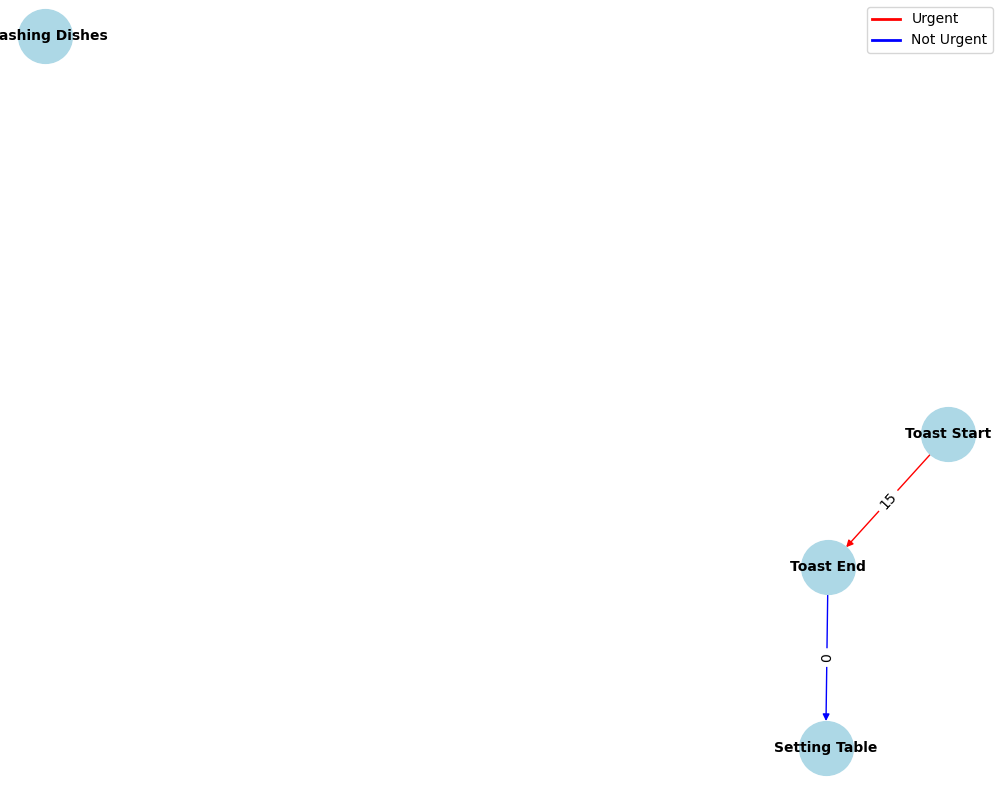
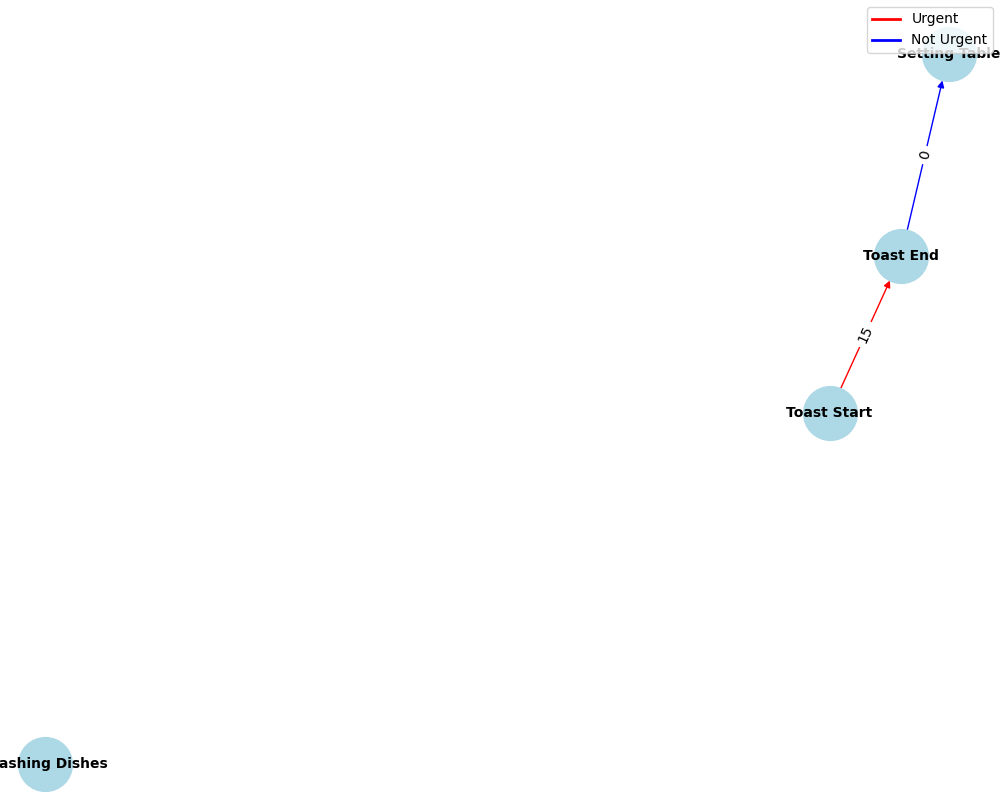
urgent constraint 적용 후

diff --git a/task_management/planner/task_plan_tree_builder.py b/task_management/planner/task_plan_tree_builder.py
@@ -5,7 +5,7 @@ from anytree import Node
 
 from concept.agent import Agent
 from concept.task import Subtask, Task, get_all_subtasks
-from task_management.constraint_manager import ConstraintHandler
+from task_management.handler.constraint_handler import ConstraintHandler
 from task_management.handler.dynamic_task_handler import TaskHandler
 from task_management.handler.subtask_decomposer import TaskDecomposer
 
@@ -101,10 +101,16 @@ class TreeBuilder:
         wait_times = []
         if tc_nodes:
             for tc_node in tc_nodes:
-                tc_interval = self.constraint_handler.constraints.get_edge_data(
+                edge_data = self.constraint_handler.constraints.get_edge_data(
                     tc_node.name, subtask.name
-                )["info"]["Interval"]
+                )["info"]
+                tc_interval = edge_data["Interval"]
+                urgency = edge_data["Urgency"]
                 wait_time = tc_node.makespan + tc_interval - parent_node.makespan
+                wait_times.append(wait_time)
+
+                if urgency:
+                    wait_time = max(0, tc_interval - wait_time)
                 wait_times.append(wait_time)
             return max(wait_times)
         else:

diff --git a/task_management/handler/constraint_handler.py b/task_management/handler/constraint_handler.py
@@ -54,4 +54,18 @@ class ConstraintHandler:
             if not tc_nodes:
                 return False
 
+            for tc_node in tc_nodes:
+                interval = self.constraints.get_edge_data(tc_node.name, subtask.name)[
+                    "info"
+                ]["Interval"]
+                urgency = self.constraints.get_edge_data(tc_node.name, subtask.name)[
+                    "info"
+                ]["Urgency"]
+                time_diff = parent_node.makespan - tc_node.makespan
+
+                if urgency and time_diff > interval:
+                    return False
+                elif not urgency and time_diff < interval:
+                    return False
+
         return True

diff --git a/task_management/scheduler/exhaustive_scheduler.py b/task_management/scheduler/exhaustive_scheduler.py
@@ -5,7 +5,7 @@ from anytree import Node
 
 from concept.agent import Agent
 from concept.task import Task, get_all_subtasks
-from task_management.constraint_manager import ConstraintHandler
+from task_management.handler.constraint_handler import ConstraintHandler
 from task_management.handler.dynamic_task_handler import TaskHandler
 from task_management.planner.task_plan_tree_builder import TreeBuilder
 
